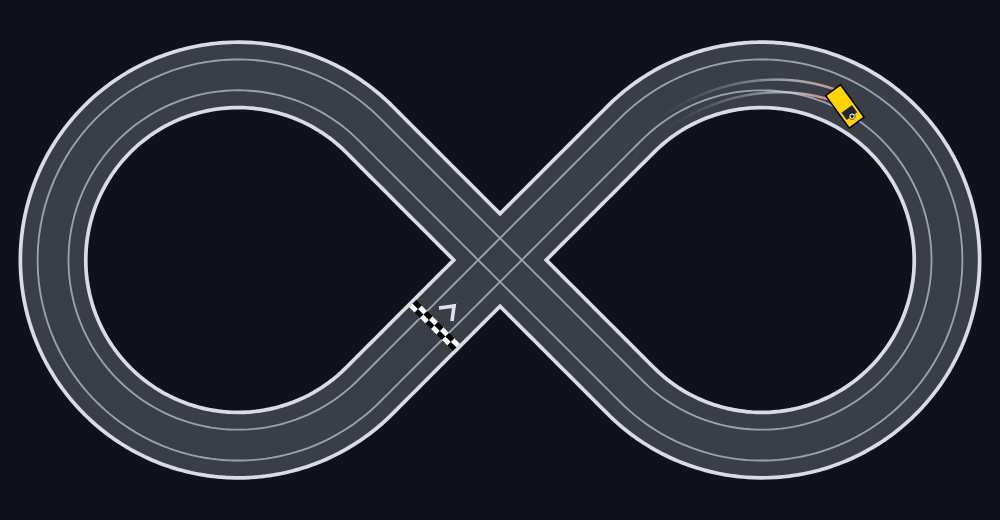
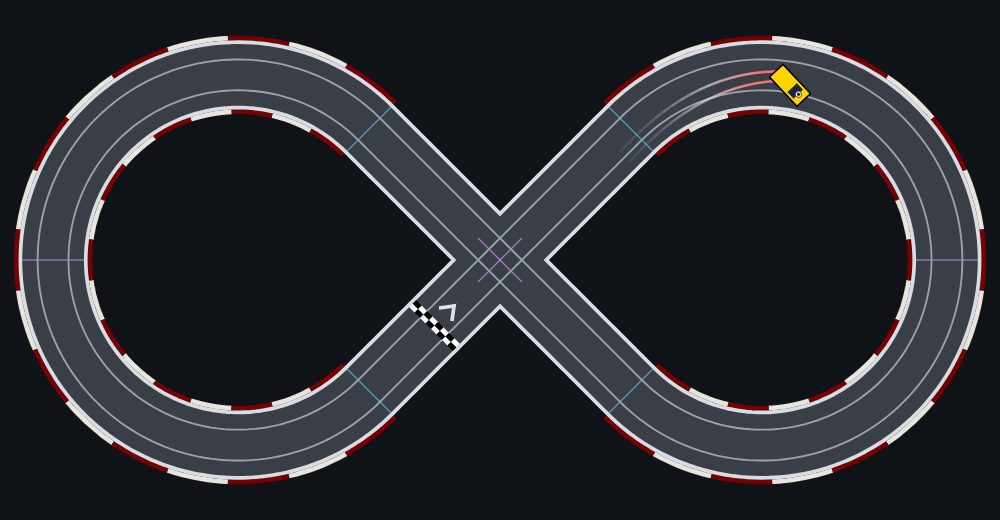
Updates README screenshots with curbs and reference lines
Regenerates all seven images with the current renderer and simulated sliding states, including the shortened Club layout. Corrects the documented Club lap length to 11.16 m.

Validation: all seven screenshots captured in Edge and visually inspected; git diff --check passed. The test suite was not repeated for documentation-only changes.

diff --git a/README.md b/README.md
@@ -42,7 +42,7 @@ A wide curve at one end and a tight hairpin at the other, joined by two straight
 
 [![The L-shaped Club circuit seen from above, with the yellow car sliding in the top left corner and its tire marks behind it](docs/circuit-club.png)](https://isghe.github.io/openslotcars/?circuit=club)
 
-The longest circuit. A rounded L driven clockwise, with a wide first curve, five right turns of different radii and a left turn in the inside corner. A lap is 12.36 m long.
+The longest circuit. A rounded L driven clockwise, with a wide first curve, five right turns of different radii and a left turn in the inside corner. A lap is 11.16 m long.
 
 ### Infinite Loop
 
